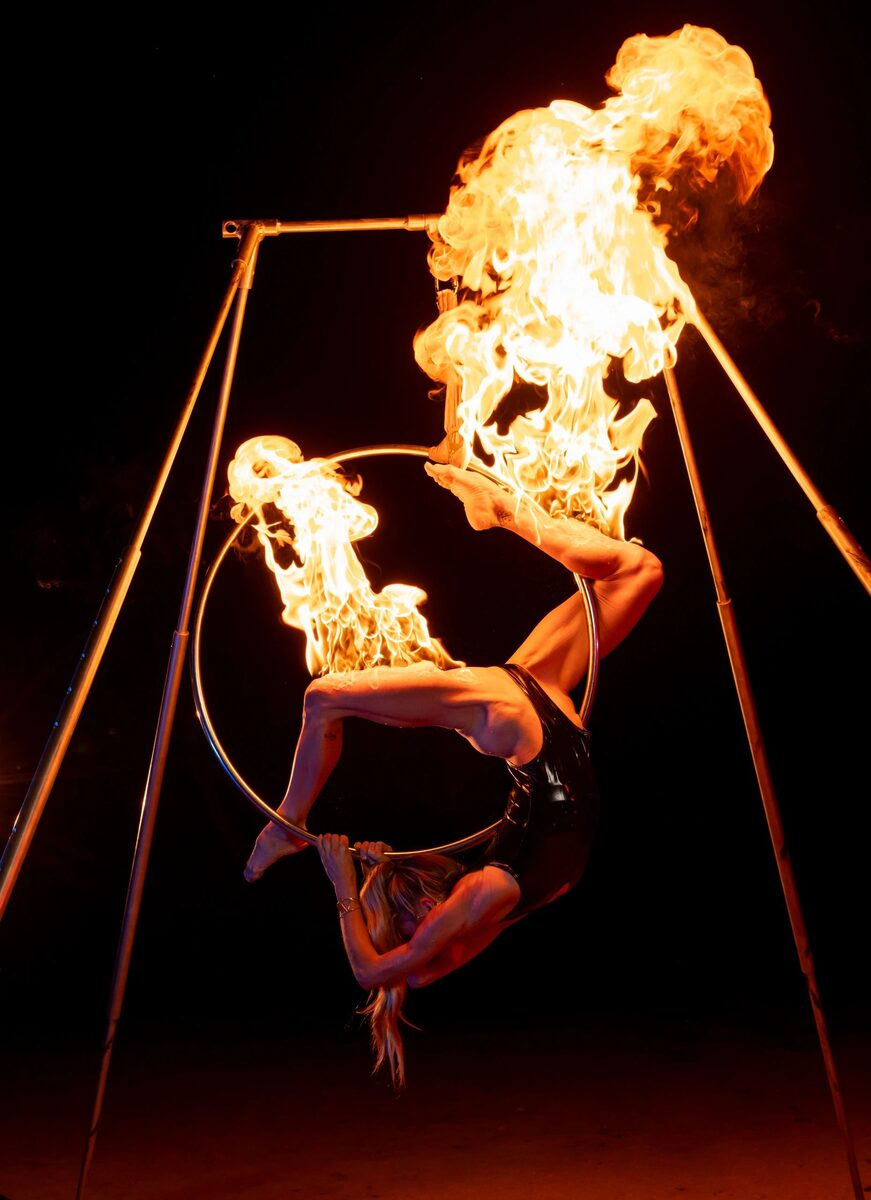
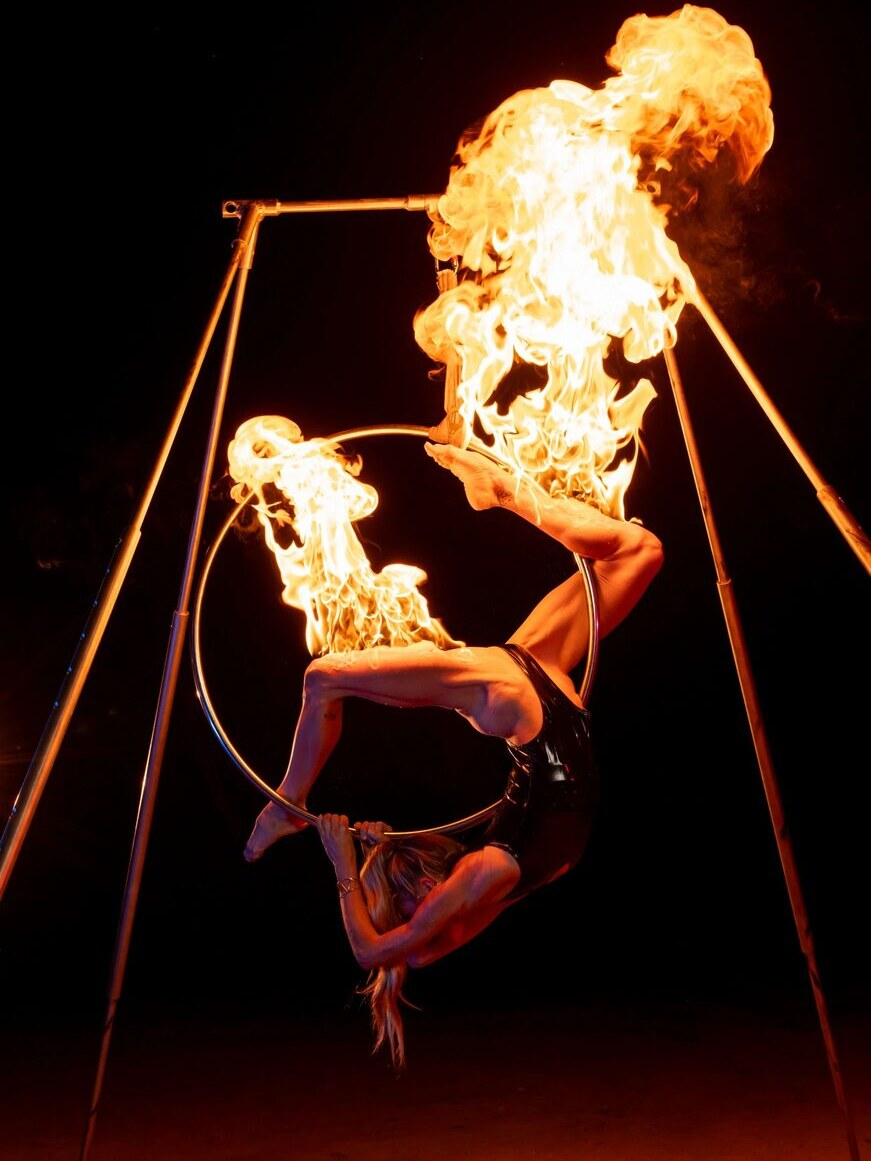
Crop dance/fire card photos to 3:4; cards grid restored; contact info card bottom-aligned

diff --git a/src/pages/Home.tsx b/src/pages/Home.tsx
@@ -34,21 +34,21 @@ export default function Home() {
 
       <section className="container">
         <h2 className="mb-8">Weekly Group Classes &amp; Jams</h2>
-        <div className="grid gap-6 grid-cols-2 md:grid-cols-4">
+        <div className="grid gap-6 grid-cols-[repeat(auto-fit,minmax(230px,1fr))]">
           <div className="rounded-[10px] overflow-hidden bg-white shadow-sm text-center pb-5">
-            <img src="/photos/aerial.jpg" alt="Aerial silks" loading="lazy" className="w-full aspect-[3/4] object-cover" />
+            <img src="/photos/aerial.jpg" alt="Aerial silks" loading="lazy" className="w-full h-[340px] object-cover" />
             <h3 className="text-xl mt-4 mb-1 px-6">Aerial Arts</h3><p className="px-6 m-0 text-sm text-ea-espresso/80">Silks, Lyra, Hammock, Straps &amp; more — all levels welcome.</p>
           </div>
           <div className="rounded-[10px] overflow-hidden bg-white shadow-sm text-center pb-5">
-            <img src="/photos/acro.jpg" alt="Acrobatics and flexibility" loading="lazy" className="w-full aspect-[3/4] object-cover" />
+            <img src="/photos/acro.jpg" alt="Acrobatics and flexibility" loading="lazy" className="w-full h-[340px] object-cover" />
             <h3 className="text-xl mt-4 mb-1 px-6">Acrobatics &amp; Flexibility</h3><p className="px-6 m-0 text-sm text-ea-espresso/80">Handstands, Intro to Contortion, Strength &amp; Flexibility training.</p>
           </div>
           <div className="rounded-[10px] overflow-hidden bg-white shadow-sm text-center pb-5">
-            <img src="/photos/dance.jpg" alt="Dance class" loading="lazy" className="w-full aspect-[3/4] object-cover scale-125 [object-position:65%_50%]" />
+            <img src="/photos/dance.jpg" alt="Dance class" loading="lazy" className="w-full h-[340px] object-cover" />
             <h3 className="text-xl mt-4 mb-1 px-6">Dance</h3><p className="px-6 m-0 text-sm text-ea-espresso/80">Ballet, Jazz, Belly Dancing, Contemporary, Heels, House &amp; more.</p>
           </div>
           <div className="rounded-[10px] overflow-hidden bg-white shadow-sm text-center pb-5">
-            <img src="/photos/fire.jpg" alt="Fire and flow arts" loading="lazy" className="w-full aspect-[3/4] object-cover" />
+            <img src="/photos/fire.jpg" alt="Fire and flow arts" loading="lazy" className="w-full h-[340px] object-cover" />
             <h3 className="text-xl mt-4 mb-1 px-6">Fire &amp; Flow Arts</h3><p className="px-6 m-0 text-sm text-ea-espresso/80">Hoops, Fans, Rope Dart, Poi, Staff — cross-prop technique &amp; flow theory.</p>
           </div>
         </div>
@@ -56,17 +56,18 @@ export default function Home() {
 
 
       <section className="container grid md:grid-cols-2 gap-10 items-stretch" id="contact">
-        <div>
+        <div className="flex flex-col">
           <h2 className="mt-0 mb-3">Contact the Studio</h2>
           <p className="mb-5">Questions about classes, private lessons, or open studio time? Send us a note — we&apos;d love to hear from you.</p>
           <ContactForm />
+          <div className="mt-auto pt-6"><div className="rounded-[10px] bg-ea-cream p-5 text-sm leading-relaxed">
+            <p className="m-0 font-semibold">Elemental Aerial Arts</p>
+            <p className="m-0"><a href="https://maps.google.com/?q=22+W+Mission+St+Unit+B,+Santa+Barbara,+CA+93101">22 W Mission St Unit B, Santa Barbara, CA 93101</a></p>
+            <p className="m-0"><a href="mailto:elementalaerialarts@gmail.com">elementalaerialarts@gmail.com</a></p>
+            <p className="m-0"><a href="tel:+18053642037">(805) 364-2037</a> (call or text)</p>
+          </div></div>
         </div>
         <img src="/photos/studio.jpg" alt="The Elemental Arts studio" loading="lazy" className="rounded-[10px] w-full h-full object-cover max-md:h-[300px]" />
-        <div className="md:col-span-2 rounded-[10px] bg-ea-cream p-5 text-sm leading-relaxed grid sm:grid-cols-3 gap-2 text-center">
-          <p className="m-0"><a href="https://maps.google.com/?q=22+W+Mission+St+Unit+B,+Santa+Barbara,+CA+93101">22 W Mission St Unit B, Santa Barbara, CA 93101</a></p>
-          <p className="m-0"><a href="mailto:elementalaerialarts@gmail.com">elementalaerialarts@gmail.com</a></p>
-          <p className="m-0"><a href="tel:+18053642037">(805) 364-2037</a> (call or text)</p>
-        </div>
       </section>
 
       <section className="bg-ea-espresso text-center">
